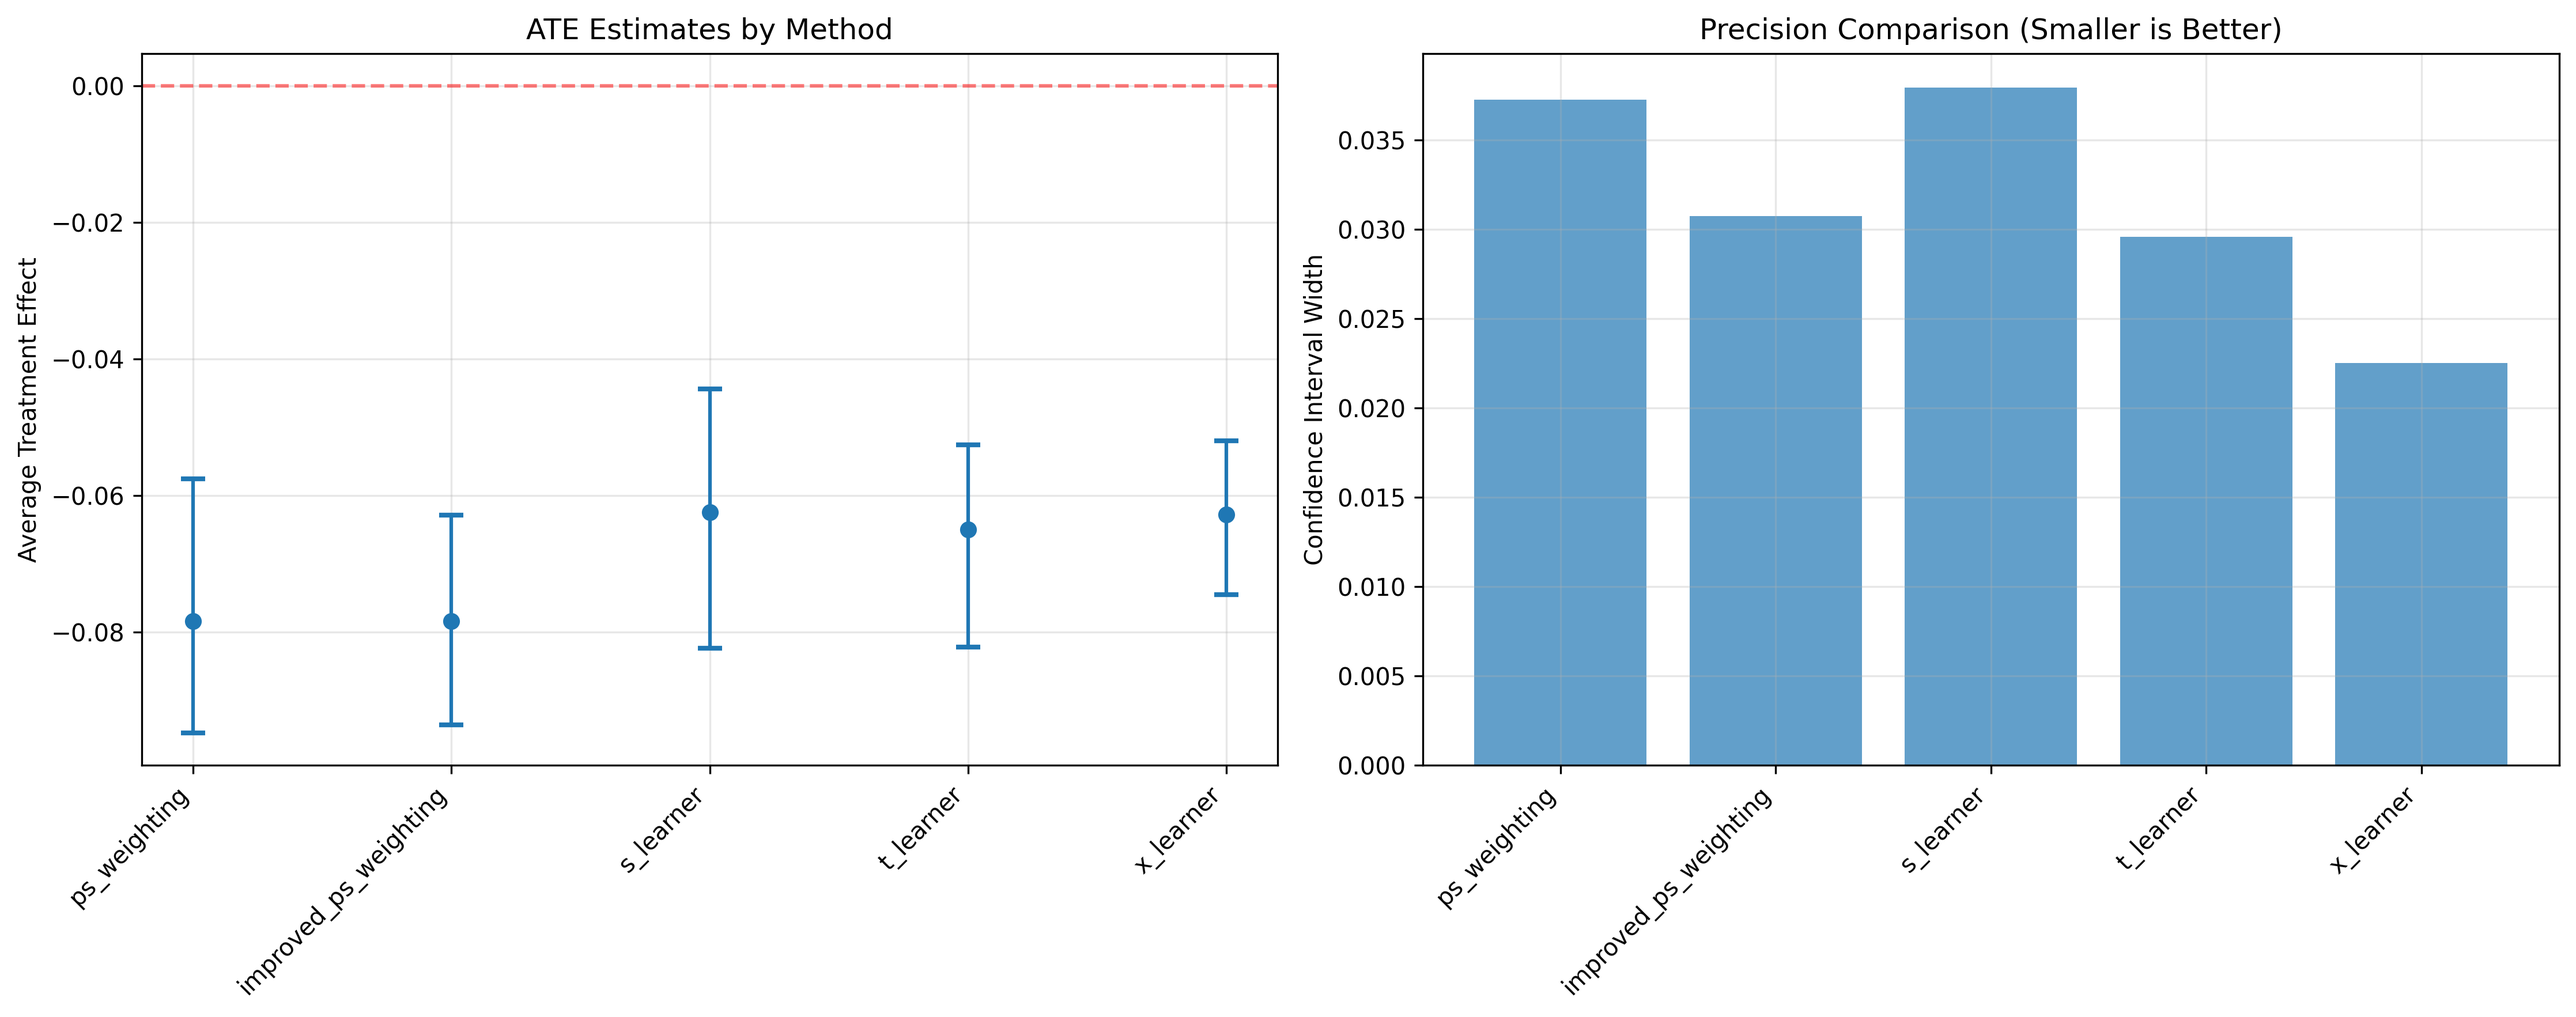
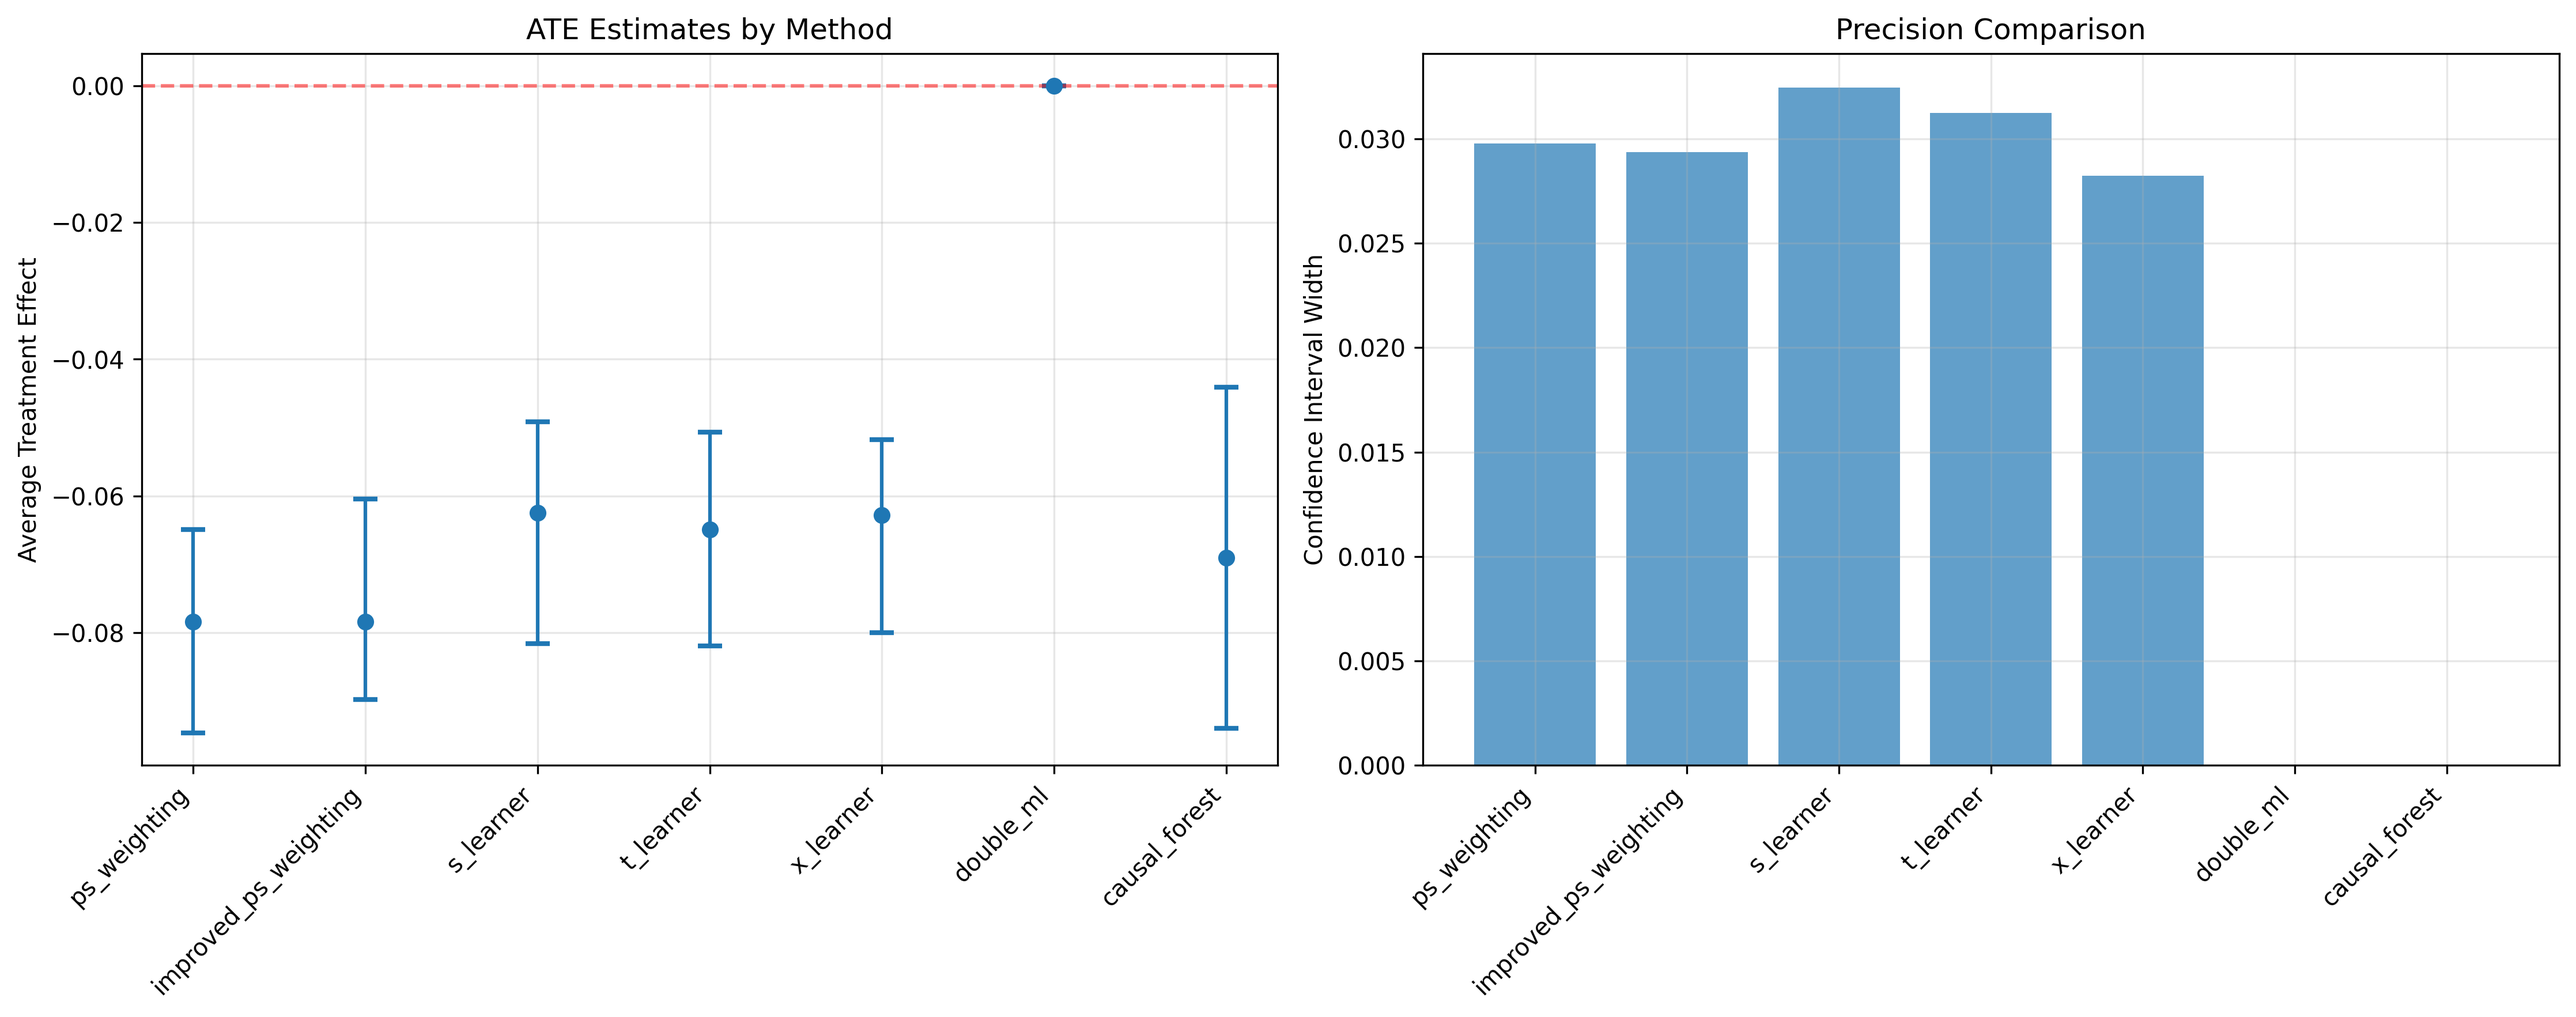
uncomment

diff --git a/demo/enhanced_demo.py b/demo/enhanced_demo.py
@@ -67,8 +67,8 @@ def main():
         's_learner',
         't_learner',
         'x_learner',
-        # 'double_ml',
-        # 'causal_forest'
+        'double_ml',
+        'causal_forest'
     ]
     
     results = cm.compare_methods(
@@ -207,7 +207,7 @@ def main():
         ax2.set_xticks(range(len(methods)))
         ax2.set_xticklabels(methods, rotation=45, ha='right')
         ax2.set_ylabel('Confidence Interval Width')
-        ax2.set_title('Precision Comparison (Smaller is Better)')
+        ax2.set_title('Precision Comparison')
         ax2.grid(True, alpha=0.3)
         
         plt.tight_layout()
